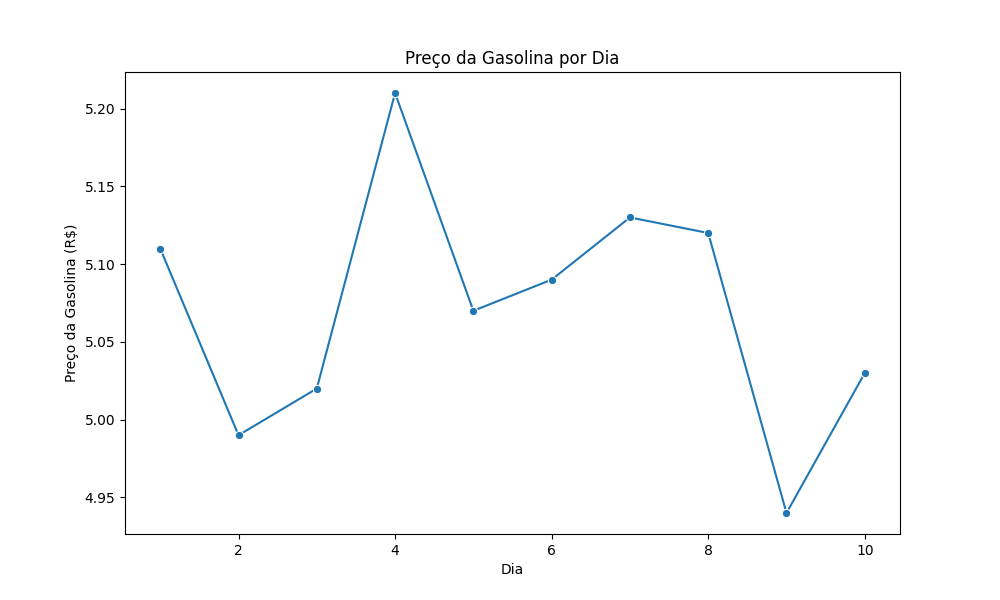
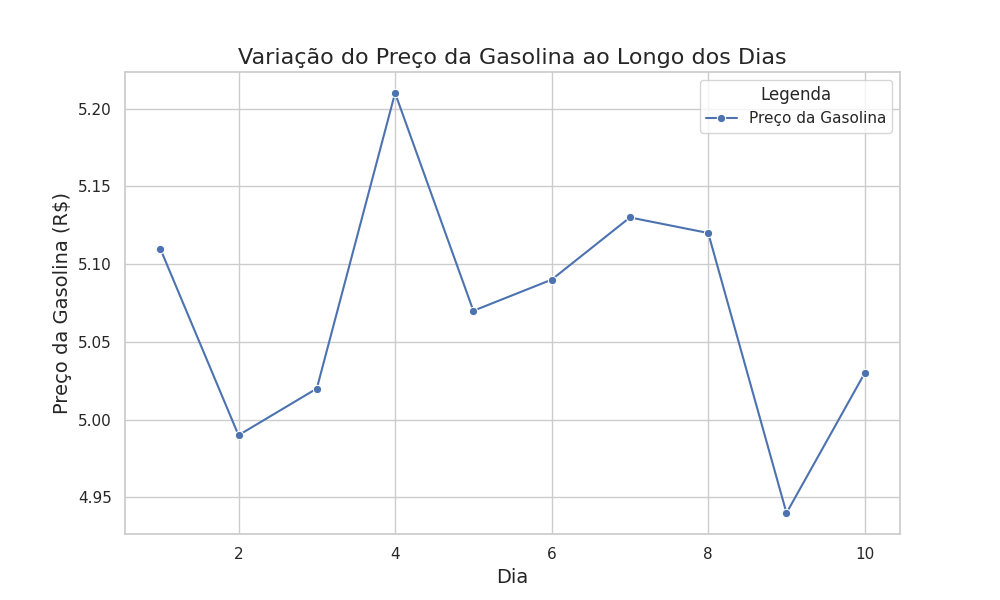
Adicionar arquivos de análise de preço da gasolina: base de dados, código Python e gráfico na branch develop

diff --git a/gasolina.py b/gasolina.py
@@ -6,11 +6,15 @@ import matplotlib.pyplot as plt
 df = pd.read_csv('gasolina.csv')
 
 plt.figure(figsize=(10, 6))
-sns.lineplot(x='dia', y='venda', data=df, marker='o')
+sns.set(style="whitegrid")
 
-plt.title('Preço da Gasolina por Dia')
-plt.xlabel('Dia')
-plt.ylabel('Preço da Gasolina (R$)')
+grafico = sns.lineplot(x='dia', y='venda', data=df, marker='o', label='Preço da Gasolina')
+
+plt.title('Variação do Preço da Gasolina ao Longo dos Dias', fontsize=16)
+plt.xlabel('Dia', fontsize=14)
+plt.ylabel('Preço da Gasolina (R$)', fontsize=14)
+plt.legend(title='Legenda')
+plt.grid(True)
 
 plt.savefig('gasolina.png')
 plt.show()
